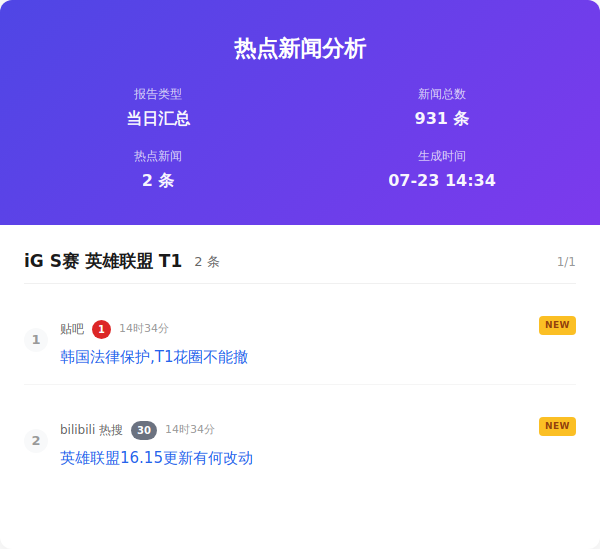
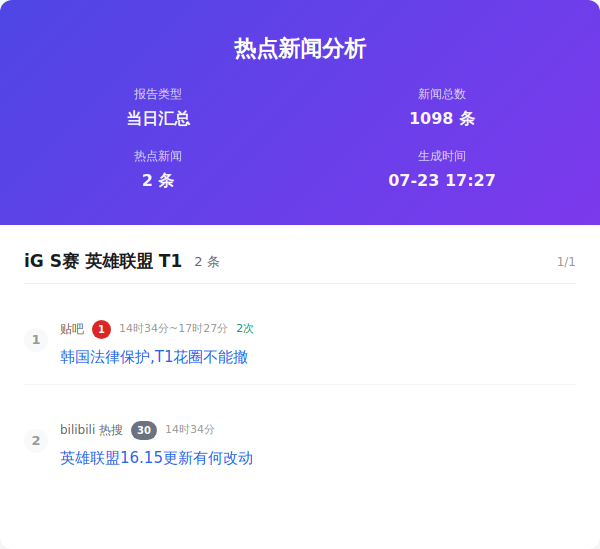
Auto update by GitHub Actions at Thu Jul 23 17:27:44 CST 2026

diff --git a/index.html b/index.html
@@ -357,7 +357,7 @@
                     </div>
                     <div class="info-item">
                         <span class="info-label">新闻总数</span>
-                        <span class="info-value">931 条</span>
+                        <span class="info-value">1098 条</span>
                     </div>
                     <div class="info-item">
                         <span class="info-label">热点新闻</span>
@@ -365,7 +365,7 @@
                     </div>
                     <div class="info-item">
                         <span class="info-label">生成时间</span>
-                        <span class="info-value">07-23 14:34</span>
+                        <span class="info-value">07-23 17:27</span>
                     </div>
                 </div>
             </div>
@@ -379,17 +379,17 @@
                         </div>
                         <div class="word-index">1/1</div>
                     </div>
-                    <div class="news-item new">
+                    <div class="news-item ">
                         <div class="news-number">1</div>
                         <div class="news-content">
                             <div class="news-header">
-                                <span class="source-name">贴吧</span><span class="rank-num top">1</span><span class="time-info">14时34分</span>
+                                <span class="source-name">贴吧</span><span class="rank-num top">1</span><span class="time-info">14时34分~17时27分</span><span class="count-info">2次</span>
                             </div>
                             <div class="news-title"><a href="https://tieba.baidu.com/hottopic/browse/hottopic?topic_id=28356432&amp;amp;topic_name=%E9%9F%A9%E5%9B%BD%E6%B3%95%E5%BE%8B%E4%BF%9D%E6%8A%A4%2CT1%E8%8A%B1%E5%9C%88%E4%B8%8D%E8%83%BD%E6%92%A4" target="_blank" class="news-link">韩国法律保护,T1花圈不能撤</a>
                             </div>
                         </div>
                     </div>
-                    <div class="news-item new">
+                    <div class="news-item ">
                         <div class="news-number">2</div>
                         <div class="news-content">
                             <div class="news-header">

diff --git a/output/2026年07月23日/html/当日汇总.html b/output/2026年07月23日/html/当日汇总.html
@@ -357,7 +357,7 @@
                     </div>
                     <div class="info-item">
                         <span class="info-label">新闻总数</span>
-                        <span class="info-value">931 条</span>
+                        <span class="info-value">1098 条</span>
                     </div>
                     <div class="info-item">
                         <span class="info-label">热点新闻</span>
@@ -365,7 +365,7 @@
                     </div>
                     <div class="info-item">
                         <span class="info-label">生成时间</span>
-                        <span class="info-value">07-23 14:34</span>
+                        <span class="info-value">07-23 17:27</span>
                     </div>
                 </div>
             </div>
@@ -379,17 +379,17 @@
                         </div>
                         <div class="word-index">1/1</div>
                     </div>
-                    <div class="news-item new">
+                    <div class="news-item ">
                         <div class="news-number">1</div>
                         <div class="news-content">
                             <div class="news-header">
-                                <span class="source-name">贴吧</span><span class="rank-num top">1</span><span class="time-info">14时34分</span>
+                                <span class="source-name">贴吧</span><span class="rank-num top">1</span><span class="time-info">14时34分~17时27分</span><span class="count-info">2次</span>
                             </div>
                             <div class="news-title"><a href="https://tieba.baidu.com/hottopic/browse/hottopic?topic_id=28356432&amp;amp;topic_name=%E9%9F%A9%E5%9B%BD%E6%B3%95%E5%BE%8B%E4%BF%9D%E6%8A%A4%2CT1%E8%8A%B1%E5%9C%88%E4%B8%8D%E8%83%BD%E6%92%A4" target="_blank" class="news-link">韩国法律保护,T1花圈不能撤</a>
                             </div>
                         </div>
                     </div>
-                    <div class="news-item new">
+                    <div class="news-item ">
                         <div class="news-number">2</div>
                         <div class="news-content">
                             <div class="news-header">